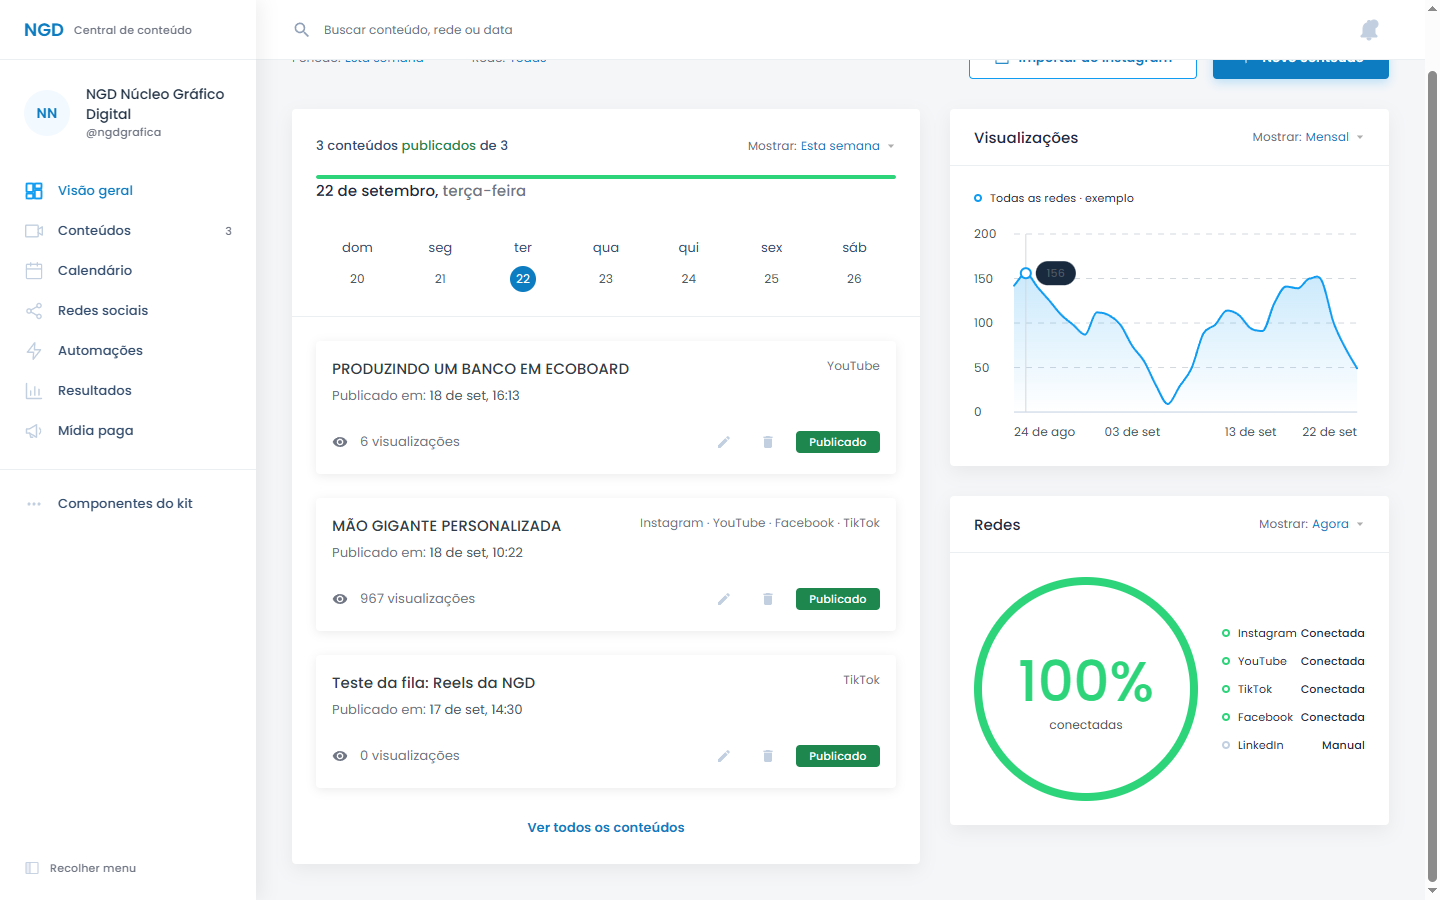
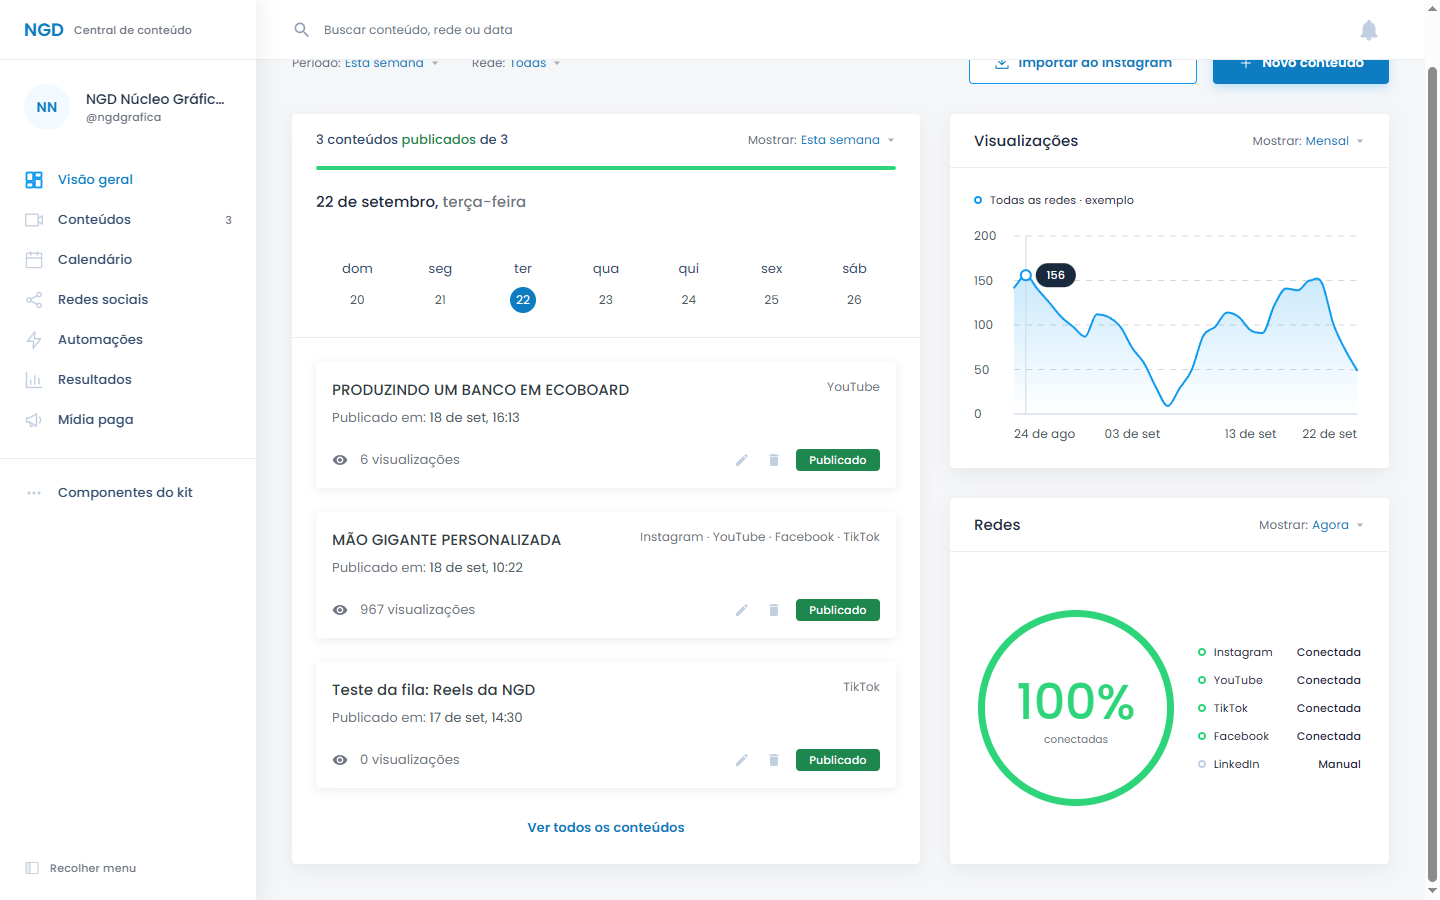
Vitrine: espaçamentos e alinhamentos nas medidas exatas do kit
Medido na tela contra o frame "dashboard regular" do .penpot:
- data 20px abaixo da barra de progresso (estava colada nela)
- bloco de resumo com 16px no topo, faixa de dias 46px abaixo da data
- cabeçalho de cartão fixo em 54px; filtro "Mostrar" com 18px de altura e
  área de clique ampliada por pseudo-elemento
- cartão de conteúdo com 126px, linha de ações de 24px (ícones 16, etiqueta)
- as duas colunas terminam na mesma altura
- legenda em grade única: rótulos e valores alinham entre as linhas
- rosca e legenda centradas e dentro da margem de 24px
- nome da loja no menu em uma linha

diff --git a/public/ui/kit.css b/public/ui/kit.css
@@ -109,7 +109,8 @@
 .k-profile{display:flex;align-items:center;gap:16px;padding:24px 24px 0}
 .k-avatar{width:46px;height:46px;border-radius:50%;background:var(--k-accent-soft);color:var(--k-accent-text);display:grid;place-items:center;font-size:14px;font-weight:600;flex-shrink:0}
 .k-avatar.sm{width:24px;height:24px;font-size:10px}
-.k-profile div>strong{display:block;font-size:14px;line-height:20px;font-weight:500;letter-spacing:0;color:var(--k-text)}
+.k-profile>div{min-width:0}
+.k-profile div>strong{display:block;white-space:nowrap;overflow:hidden;text-overflow:ellipsis;font-size:14px;line-height:20px;font-weight:500;letter-spacing:0;color:var(--k-text)}
 .k-profile div>span{display:block;font-size:11px;line-height:17px;font-weight:500;letter-spacing:.2px;color:var(--k-text-muted)}
 .k-nav{display:flex;flex-direction:column;gap:4px;padding:32px 12px 0}
 .k-nav a{display:flex;align-items:center;gap:14px;min-height:36px;padding:8px 12px;border-radius:var(--k-radius);font-size:13px;line-height:20px;font-weight:500;color:var(--k-nav);cursor:pointer}
@@ -145,18 +146,22 @@
 .k-grid.cols-2{grid-template-columns:repeat(2,minmax(0,1fr))}
 .k-grid.cols-3{grid-template-columns:repeat(3,minmax(0,1fr))}
 .k-stack{display:flex;flex-direction:column;gap:var(--k-gap);min-width:0}
+.k-stack>.k-card:last-child{flex:1}
+.k-stack>.k-card:last-child>.k-card-body{flex:1;display:flex;flex-direction:column;justify-content:center}
 
 /* ---------- cartão ---------- */
 .k-card{background:var(--k-surface);border-radius:var(--k-radius);box-shadow:var(--k-shadow);min-width:0;display:flex;flex-direction:column}
-.k-card-head{min-height:54px;padding:15px 24px;display:flex;align-items:center;justify-content:space-between;gap:16px;border-bottom:1px solid var(--k-border)}
+.k-card-head{height:54px;padding:0 24px;display:flex;align-items:center;justify-content:space-between;gap:16px;border-bottom:1px solid var(--k-border)}
 .k-card-head.flush{border-bottom:0}
 .k-card-title{font-size:15px;line-height:23px;font-weight:500;color:var(--k-text);margin:0}
 .k-card-body{padding:24px}
 .k-card-body.tight{padding:16px 24px}
+.k-card-body.summary{padding:16px 24px 24px}
 .k-card-foot{padding:0 24px 20px;display:flex;justify-content:center}
 
 /* filtro "Mostrar: Este mês ▾" */
-.k-show{display:inline-flex;align-items:center;gap:4px;border:0;background:none;padding:4px 0;font-size:12px;line-height:18px;color:#6a707e;cursor:pointer;white-space:nowrap}
+.k-show{position:relative;display:inline-flex;align-items:center;gap:4px;border:0;background:none;padding:0;font-size:12px;line-height:18px;color:#6a707e;cursor:pointer;white-space:nowrap}
+.k-show::after{content:"";position:absolute;inset:-12px -6px}
 .k-show b{font-weight:400;color:var(--k-accent-text)}
 .k-show .k-icon{color:#aeaeae;margin-left:2px}
 select.k-show{appearance:none;-webkit-appearance:none}
@@ -168,9 +173,9 @@ select.k-show{appearance:none;-webkit-appearance:none}
 .k-progress>i{display:block;height:100%;border-radius:2px;background:var(--k-green);width:0}
 
 /* faixa de dias da semana */
-.k-date{font-size:15px;line-height:23px;font-weight:500;color:var(--k-text);margin:0}
+.k-date{font-size:15px;line-height:23px;font-weight:500;color:var(--k-text);margin:20px 0 0}
 .k-date span{color:var(--k-text-muted)}
-.k-days{display:grid;grid-template-columns:repeat(7,1fr);margin-top:36px;text-align:center}
+.k-days{display:grid;grid-template-columns:repeat(7,1fr);margin-top:46px;text-align:center}
 .k-days button{border:0;background:none;padding:0;display:flex;flex-direction:column;align-items:center;gap:8px;cursor:pointer;color:var(--k-nav);font-size:13px;line-height:20px}
 .k-days b{width:26px;height:26px;border-radius:50%;display:grid;place-items:center;font-size:12px;font-weight:400;color:var(--k-text-3)}
 .k-days [aria-current=date] b{background:var(--k-accent-fill);color:#fff}
@@ -179,14 +184,16 @@ select.k-show{appearance:none;-webkit-appearance:none}
 
 /* cartão de item (cartão de tarefa do kit): título, tipo, meta, pessoa, etiqueta */
 .k-items{display:flex;flex-direction:column;gap:24px}
-.k-item{background:var(--k-surface);border-radius:var(--k-radius);box-shadow:0 2px 10px rgba(0,0,0,.08);padding:16px;display:grid;grid-template-columns:minmax(0,1fr) auto;gap:6px 16px}
+.k-item{background:var(--k-surface);border-radius:var(--k-radius);box-shadow:0 2px 10px rgba(0,0,0,.08);padding:16px;display:grid;grid-template-columns:minmax(0,1fr) auto;gap:7px 16px}
 .k-item:hover{box-shadow:0 4px 18px rgba(0,0,0,.12)}
 .k-item-title{font-size:15px;line-height:23px;font-weight:500;color:var(--k-text-2);margin:0;min-width:0;overflow:hidden;text-overflow:ellipsis;white-space:nowrap}
 .k-item-type{font-size:12px;line-height:18px;color:var(--k-text-muted);text-align:right}
 .k-item-meta{grid-column:1/-1;margin:0;font-size:13px;line-height:20px;color:var(--k-text-3)}
 .k-item-meta span{color:var(--k-text-muted)}
-.k-item-who{display:flex;align-items:center;gap:12px;font-size:13px;color:var(--k-text-muted);margin-top:14px;min-width:0}
-.k-item-end{display:flex;align-items:center;gap:12px;margin-top:14px;justify-self:end}
+.k-item-who{display:flex;align-items:center;gap:12px;height:24px;font-size:13px;color:var(--k-text-muted);margin-top:13px;min-width:0}
+.k-item-end{display:flex;align-items:center;gap:8px;margin-top:13px;justify-self:end}
+.k-item-end .k-iconbtn{width:24px;height:24px}
+.k-item-end .k-badge{margin-left:4px}
 .k-item-end .k-icon{color:var(--k-gray-icon)}
 
 /* ---------- etiqueta de status: retângulo de cor cheia, 11px ---------- */
@@ -202,7 +209,11 @@ select.k-show{appearance:none;-webkit-appearance:none}
 .k-legend{display:flex;flex-direction:column;gap:12px;margin:0;padding:0;list-style:none}
 .k-legend.row{flex-direction:row;flex-wrap:wrap;gap:8px 24px}
 .k-legend.row li{display:flex}
-.k-legend li{display:grid;grid-template-columns:8px minmax(0,1fr) auto;align-items:center;gap:8px;font-size:11px;line-height:16px;letter-spacing:.2px;color:var(--k-text)}
+/* coluna única para todas as linhas: rótulos e valores alinham entre si */
+.k-legend:not(.row){display:grid;grid-template-columns:8px auto auto;align-items:center;gap:12px 8px;justify-content:start}
+.k-legend:not(.row) li{display:contents}
+.k-legend:not(.row) li b{justify-self:end;padding-left:16px}
+.k-legend li{display:flex;align-items:center;gap:8px;font-size:11px;line-height:16px;letter-spacing:.2px;color:var(--k-text)}
 .k-legend li i{width:8px;height:8px;border-radius:50%;border:2px solid var(--dot,var(--k-accent));flex-shrink:0}
 .k-hbars{list-style:none;margin:0;padding:0;display:flex;flex-direction:column;gap:18px}
 .k-hbars li{display:grid;grid-template-columns:110px minmax(0,1fr) 56px;align-items:center;gap:16px;font-size:13px;color:var(--k-nav)}
@@ -261,9 +272,13 @@ select.k-show{appearance:none;-webkit-appearance:none}
 .k-chart text.k-tip-text{fill:#fff;font-size:11px;font-weight:500;letter-spacing:.2px}
 .k-chart .k-hit{fill:transparent;cursor:crosshair}
 .k-chart .k-guide{stroke:var(--k-border-strong);stroke-width:1}
-.k-donut-wrap{display:flex;align-items:center;gap:24px;flex-wrap:wrap}
+.k-donut-wrap{display:flex;align-items:center;justify-content:center;gap:32px;flex-wrap:wrap}
+.k-donut-wrap{container-type:inline-size}
 .k-donut-wrap .k-chart{width:224px;max-width:100%}
-.k-donut-wrap .k-legend{flex:1;min-width:140px}
+@container (max-width:420px){.k-donut-wrap .k-chart{width:196px}}
+.k-card-body>.k-donut-wrap{row-gap:24px}
+.k-grid.cols-dash .k-donut-wrap{gap:24px}
+.k-donut-wrap .k-legend{flex:0 1 auto}
 .k-chart .k-donut-center{font-size:56px;font-weight:500;letter-spacing:0}
 .k-chart text.k-donut-caption{font-size:12px;font-weight:400;fill:var(--k-text-muted)}
 
@@ -308,7 +323,7 @@ body.k-body{margin:0;background:var(--k-page)}
 .k-nav-sub .dot-ok i{border-color:var(--k-green)}
 .k-nav-sub .dot-danger i{border-color:var(--k-red)}
 .k-nav-2{padding-top:0}
-p.k-progress-label,p.k-date{margin:0}
+p.k-progress-label{margin:0}
 
 /* ---------- telas menores ---------- */
 @media (max-width:1180px){.k-grid.cols-dash,.k-grid.cols-3{grid-template-columns:minmax(0,1fr)}}

diff --git a/public/ui/kit-demo.js b/public/ui/kit-demo.js
@@ -44,7 +44,7 @@ function shell(body) {
   }).join('');
   return `<aside class="k-side" aria-label="Menu principal">
     <div class="k-logo">NGD <small>Central de conteúdo</small></div>
-    <div class="k-profile"><span class="k-avatar">${initials(s.name)}</span><div><strong>${esc(s.name || 'NGD Núcleo Gráfico')}</strong><span>@${esc(s.instagram || 'nucleograficodigital')}</span></div></div>
+    <div class="k-profile"><span class="k-avatar">${initials(s.name)}</span><div><strong title="${esc(s.name || '')}">${esc(s.name || 'NGD Núcleo Gráfico')}</strong><span>@${esc(s.instagram || 'nucleograficodigital')}</span></div></div>
     <nav class="k-nav">${nav}</nav>
     <div class="k-side-divider"></div>
     <nav class="k-nav k-nav-2"><a href="#components"${view === 'components' ? ' aria-current="page"' : ''}>${icon('settings')}<span>Componentes do kit</span></a></nav>
@@ -71,10 +71,10 @@ function overview() {
   return `<div class="k-pagebar"><div class="k-filters">${show('Período', 'Esta semana')}${show('Rede', 'Todas')}</div><div class="k-actions"><button class="k-btn secondary" type="button">${icon('download', { size: 16 })} Importar do Instagram</button><button class="k-btn primary" type="button">${icon('plus', { size: 16 })} Novo conteúdo</button></div></div>
   <div class="k-grid cols-dash">
     <section class="k-card" aria-labelledby="t-week">
-      <div class="k-card-body">
+      <div class="k-card-body summary">
         <div class="k-row-between"><p class="k-progress-label" id="t-week">${done} ${done === 1 ? 'conteúdo' : 'conteúdos'} <em>publicado${done === 1 ? '' : 's'}</em> de ${c.length}</p>${show('Mostrar', 'Esta semana')}</div>
         <div class="k-progress" role="progressbar" aria-valuenow="${pct}" aria-valuemin="0" aria-valuemax="100" aria-label="Publicados"><i data-w="${pct}"></i></div>
-        <p class="k-date k-mt-32">${now.toLocaleDateString('pt-BR', { day: 'numeric', month: 'long' })}, <span>${now.toLocaleDateString('pt-BR', { weekday: 'long' })}</span></p>
+        <p class="k-date">${now.toLocaleDateString('pt-BR', { day: 'numeric', month: 'long' })}, <span>${now.toLocaleDateString('pt-BR', { weekday: 'long' })}</span></p>
         <div class="k-days">${week.map(d => `<button type="button" class="${hasOn(d) ? 'has' : ''}"${d.toDateString() === now.toDateString() ? ' aria-current="date"' : ''}>${d.toLocaleDateString('pt-BR', { weekday: 'short' }).replace('.', '')}<b>${d.getDate()}</b></button>`).join('')}</div>
       </div>
       <div class="k-divider"></div>
